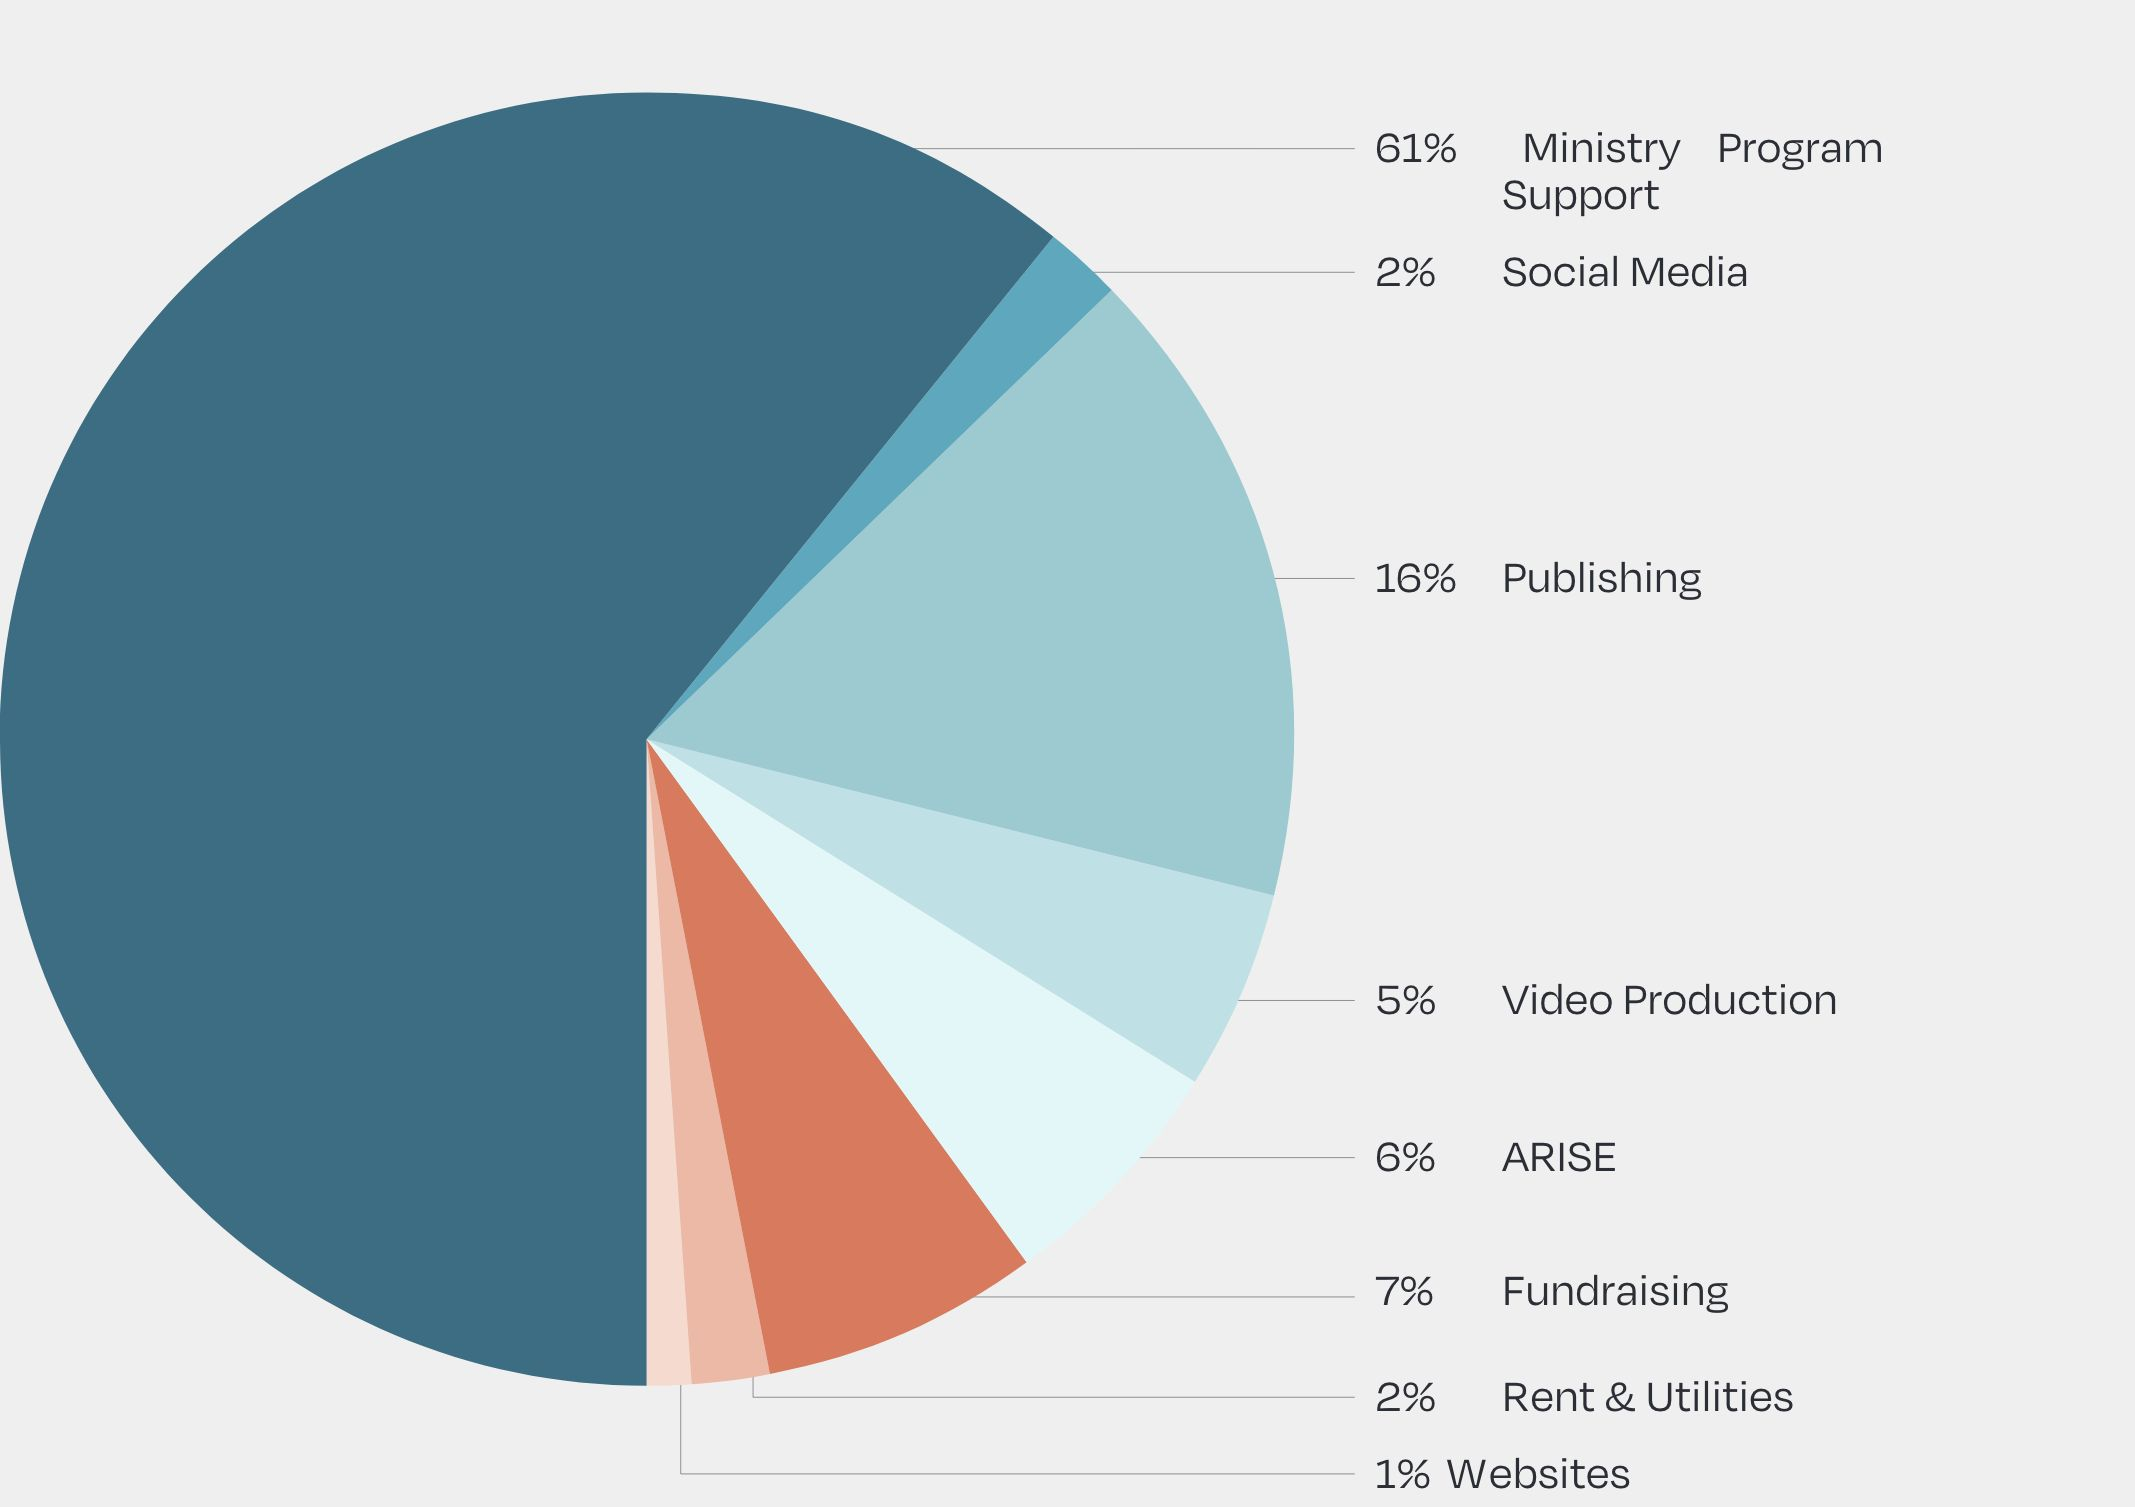
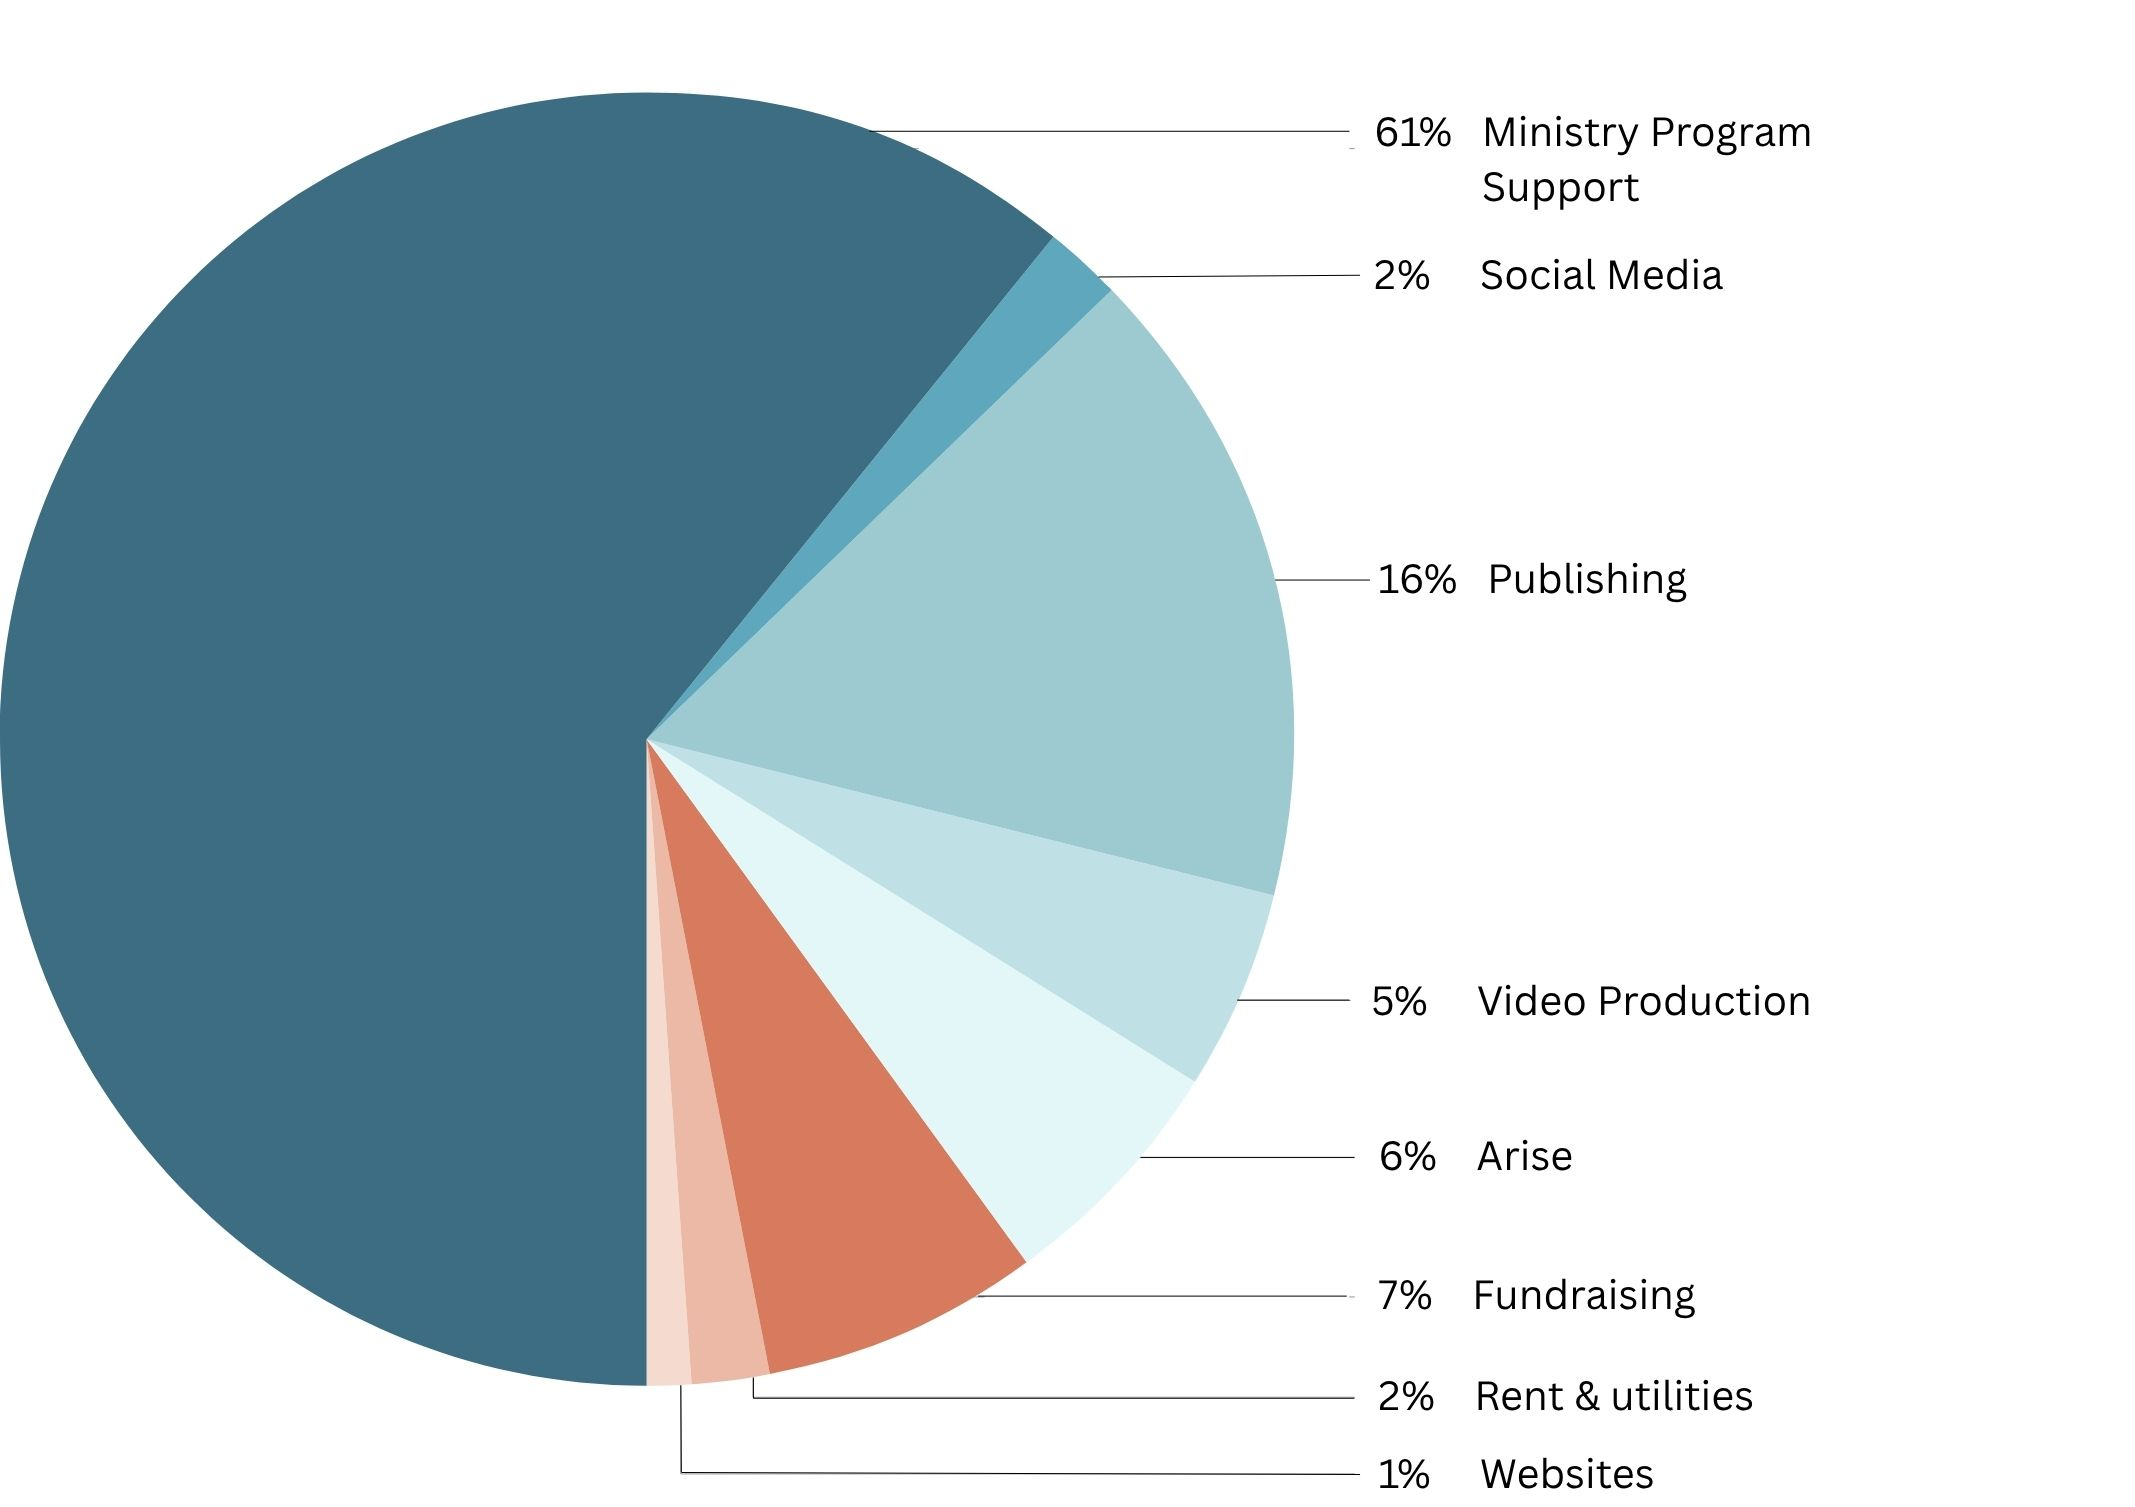
image updates

diff --git a/style.css b/style.css
@@ -1414,7 +1414,7 @@ body {
 
 /* Financial Allocation Section Styles */
 .financial-allocation-section {
-    background: #EFEFEF;
+    background: #ffffff;
     padding: 80px 20px;
     font-family: 'Degular', sans-serif;
     display: flex;
